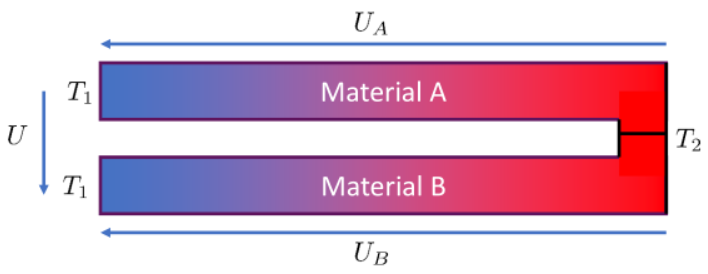
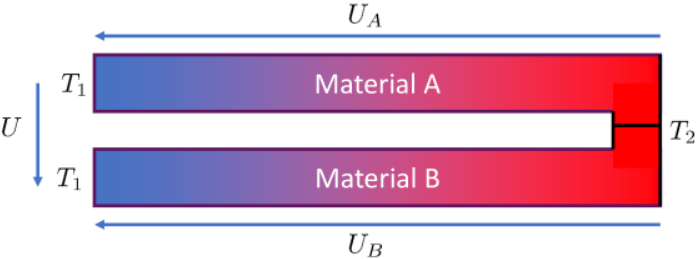
added Seebeck sensitivity

diff --git a/sections/sensoren.tex b/sections/sensoren.tex
@@ -128,11 +128,14 @@
             \item Einsatz bei sehr hohen Temperaturen
             \item Ungenauer als Pt100, aber schnelleres Ansprechverhalten
         \end{itemize}
+        \vspace{-15pt}
         \begin{figure}[H]
             \includegraphics[width=0.9\columnwidth]{Figures/sensoren/thermodiffusion.png}
         \end{figure}
+        \vspace{-20pt}
         \begin{align*}
-            U \approx (S_B - S_A) \cdot (T_2 - T_1)
+            U &\approx (S_B - S_A) \cdot (T_2 - T_1)\\
+            \frac{\partial U}{\partial T_2} &= S_B - S_A
         \end{align*}
     \subsubsection{NTC}
         \begin{align*}